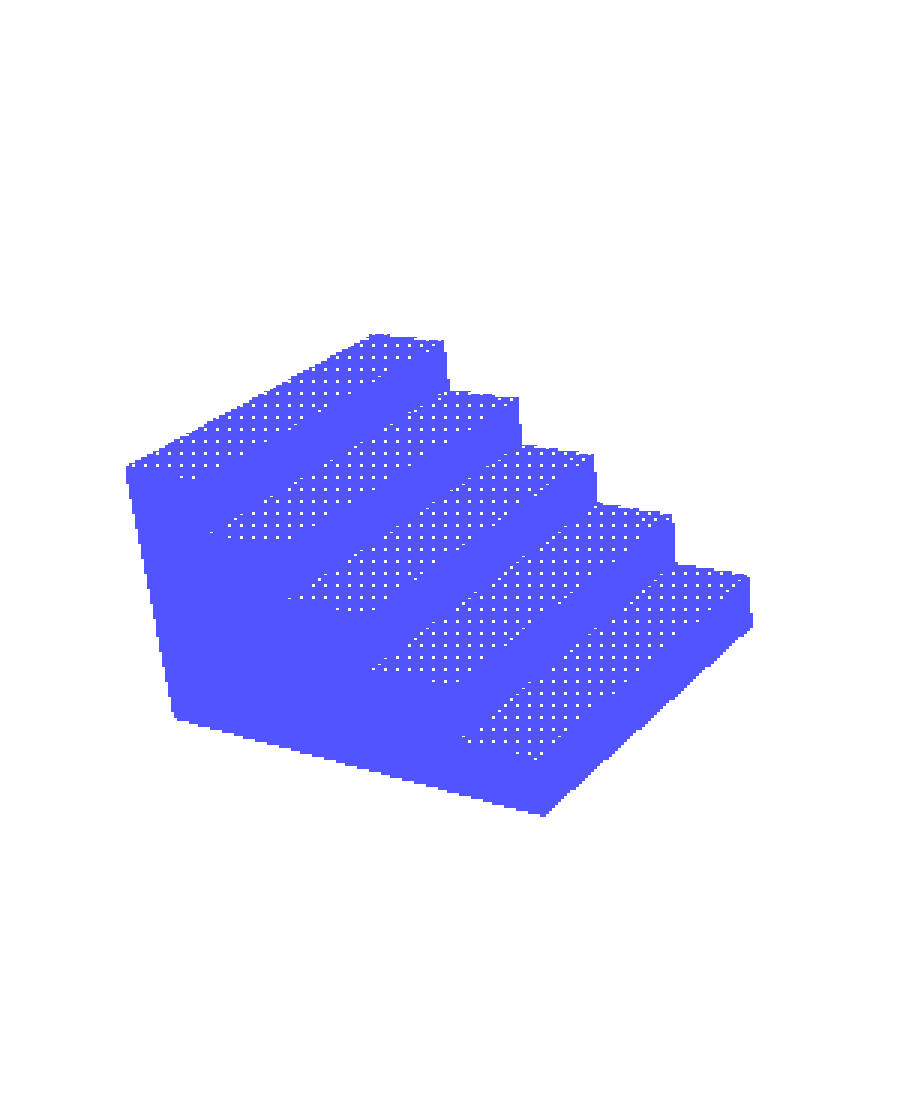
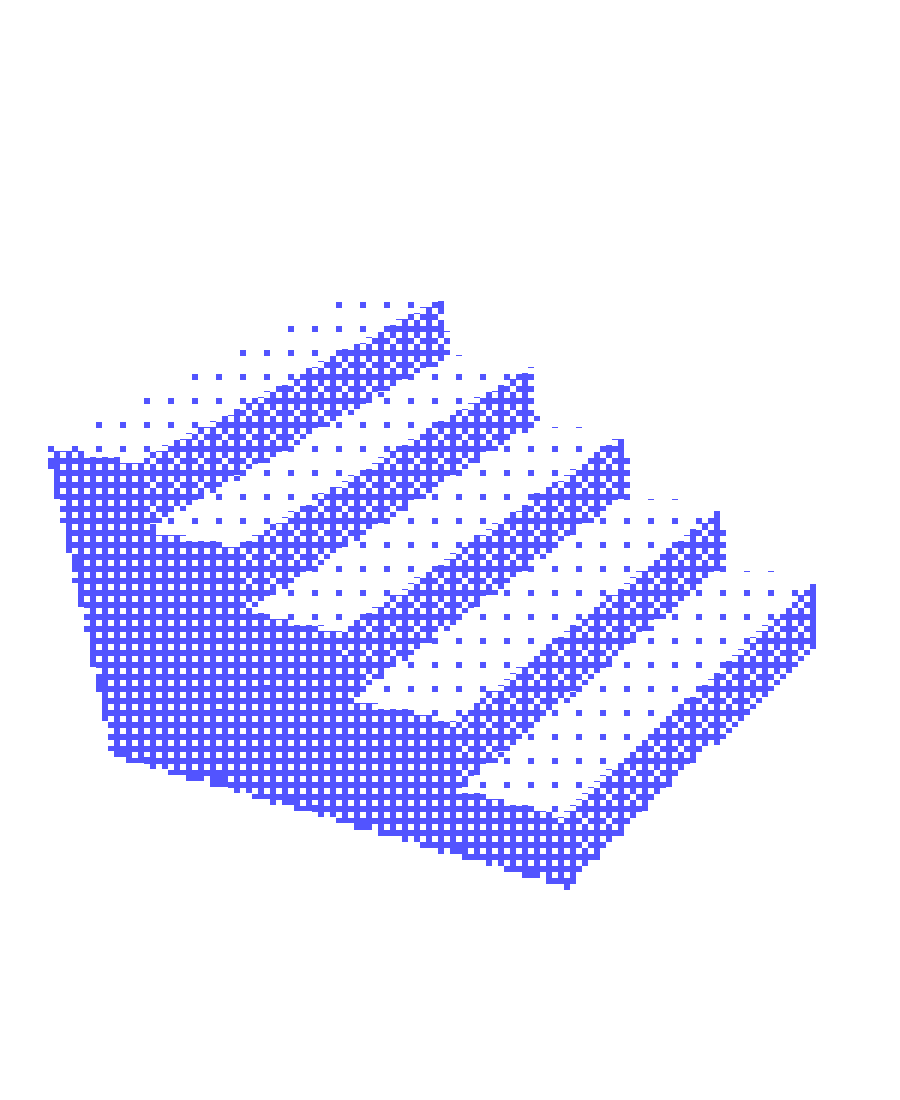
Stickers re-rendered with the main hero 3D dither look

Changed region(s): [[0.0311, 0.2782, 0.9333, 0.8036]]

diff --git a/index.html b/index.html
@@ -366,14 +366,14 @@
           <div class="pb-sec" data-sec="sticker">
             <h3 class="pb-panel-t">STICKER</h3>
             <div class="pb-stickers" id="pb-stickers">
-              <button class="pb-sticker" onclick="boothAddSticker(1)"><img src="images/booth/sticker1.png?v=2" alt="스티커1"></button>
-              <button class="pb-sticker" onclick="boothAddSticker(2)"><img src="images/booth/sticker2.png?v=2" alt="스티커2"></button>
-              <button class="pb-sticker" onclick="boothAddSticker(3)"><img src="images/booth/sticker3.png?v=2" alt="스티커3"></button>
-              <button class="pb-sticker" onclick="boothAddSticker(4)"><img src="images/booth/sticker4.png?v=2" alt="스티커4"></button>
-              <button class="pb-sticker" onclick="boothAddSticker(5)"><img src="images/booth/sticker5.png?v=2" alt="스티커5"></button>
-              <button class="pb-sticker" onclick="boothAddSticker(6)"><img src="images/booth/sticker6.png?v=2" alt="스티커6"></button>
-              <button class="pb-sticker" onclick="boothAddSticker(7)"><img src="images/booth/sticker7.png?v=2" alt="스티커7"></button>
-              <button class="pb-sticker" onclick="boothAddSticker(8)"><img src="images/booth/sticker8.png?v=2" alt="스티커8"></button>
+              <button class="pb-sticker" onclick="boothAddSticker(1)"><img src="images/booth/sticker1.png?v=3" alt="스티커1"></button>
+              <button class="pb-sticker" onclick="boothAddSticker(2)"><img src="images/booth/sticker2.png?v=3" alt="스티커2"></button>
+              <button class="pb-sticker" onclick="boothAddSticker(3)"><img src="images/booth/sticker3.png?v=3" alt="스티커3"></button>
+              <button class="pb-sticker" onclick="boothAddSticker(4)"><img src="images/booth/sticker4.png?v=3" alt="스티커4"></button>
+              <button class="pb-sticker" onclick="boothAddSticker(5)"><img src="images/booth/sticker5.png?v=3" alt="스티커5"></button>
+              <button class="pb-sticker" onclick="boothAddSticker(6)"><img src="images/booth/sticker6.png?v=3" alt="스티커6"></button>
+              <button class="pb-sticker" onclick="boothAddSticker(7)"><img src="images/booth/sticker7.png?v=3" alt="스티커7"></button>
+              <button class="pb-sticker" onclick="boothAddSticker(8)"><img src="images/booth/sticker8.png?v=3" alt="스티커8"></button>
             </div>
           </div>
           <div class="pb-sec" data-sec="frame">
@@ -459,7 +459,7 @@
 </div>
 
 <script src="works-data.js?v=6"></script>
-<script src="main.js?v=135"></script>
+<script src="main.js?v=136"></script>
 
 <!-- 3D 인터랙티브 히어로 (Three.js — 로컬 번들, CDN 의존 없음) -->
 <script src="models.js?v=1"></script>

diff --git a/tools/render.html b/tools/render.html
@@ -13,7 +13,7 @@ import { RoomEnvironment } from 'three/addons/environments/RoomEnvironment.js';
 import { initCamObj } from '../hero3d.js';
 
 const save = (name, cv) => fetch('http://127.0.0.1:3401/', { method: 'POST', headers: { 'Content-Type': 'application/json' }, body: JSON.stringify({ name, data: cv.toDataURL('image/png') }) });
-const W = 900, H = 1100, PX = 3; // 디더 한 칸 = 3px
+const W = 900, H = 1100, PX = 6; // 디더 한 칸 = 3px
 
 function ditherRender(build, name) {
   const cv = document.createElement('canvas'); cv.width = W; cv.height = H; document.body.appendChild(cv);
@@ -26,14 +26,14 @@ function ditherRender(build, name) {
   const k2 = new THREE.DirectionalLight(0xffffff, 2.0); k2.position.set(-7, 4, 6); scene.add(k2);
   const obj = build(); const box = new THREE.Box3().setFromObject(obj), c = box.getCenter(new THREE.Vector3());
   obj.position.sub(c); const g = new THREE.Group(); g.add(obj);
-  g.scale.setScalar(3.5 / box.getBoundingSphere(new THREE.Sphere()).radius); scene.add(g);
+  g.scale.setScalar(4.3 / box.getBoundingSphere(new THREE.Sphere()).radius); scene.add(g);
   const rt = new THREE.WebGLRenderTarget(W / PX, H / PX, { minFilter: THREE.NearestFilter, magFilter: THREE.NearestFilter });
   const post = new THREE.ShaderMaterial({ transparent: true, uniforms: { t: { value: rt.texture } },
     vertexShader: 'varying vec2 v; void main(){ v=uv; gl_Position=vec4(position.xy,0.,1.); }',
     fragmentShader: `uniform sampler2D t; varying vec2 v;
       float bayer(vec2 p){ mat4 B=mat4(0.,8.,2.,10.,12.,4.,14.,6.,3.,11.,1.,9.,15.,7.,13.,5.)/16.; int x=int(mod(p.x,4.)),y=int(mod(p.y,4.)); vec4 r=B[y]; return x==0?r.x:x==1?r.y:x==2?r.z:r.w; }
       void main(){ vec4 c=texture2D(t,v); if(c.a<0.05) discard;
-        float l=dot(c.rgb/max(c.a,.01),vec3(.299,.587,.114)); float cov=clamp((1.-l)*1.35+.02,0.,1.);
+        float l=dot(c.rgb/max(c.a,.01),vec3(.299,.587,.114)); float cov=clamp((1.-l-.65)*4.5+.01,0.,1.)*clamp(c.a+.25,0.,1.); cov=max(cov,.001); /* 메인 히어로 3D와 같은 디더 */
         if(cov<bayer(floor(gl_FragCoord.xy/${PX}.))) discard; gl_FragColor=vec4(.322,.329,1.,1.); }` });
   const ps = new THREE.Scene(); ps.add(new THREE.Mesh(new THREE.PlaneGeometry(2, 2), post));
   r.setRenderTarget(rt); r.clear(); r.render(scene, cam); r.setRenderTarget(null); r.clear();

diff --git a/main.js b/main.js
@@ -1195,7 +1195,7 @@ function boothAddSticker(n) {
   el.className = 'pb-sticker-inst';
   el.dataset.sid = (++_sid);
   var img = new Image();
-  img.src = 'images/booth/sticker' + n + '.png?v=2';
+  img.src = 'images/booth/sticker' + n + '.png?v=3';
   el.appendChild(img);
   // 살짝 랜덤 위치 (겹침 방지)
   var sw = strip ? strip.offsetWidth : 320;
